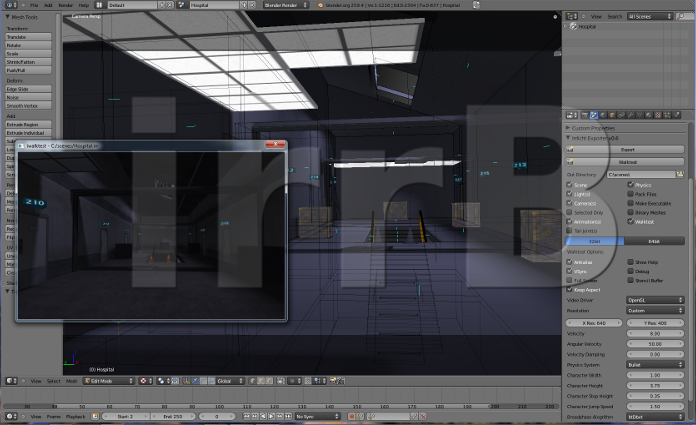
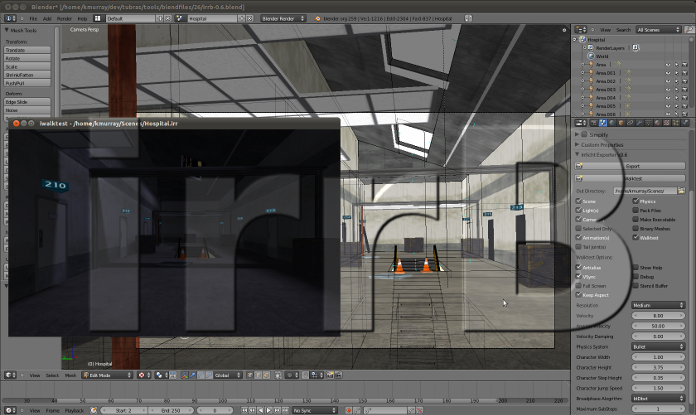
irrb 0.6 - Added Irrlicht camera properties to Object panel.

diff --git a/tools/irrb/io_export_irrlicht.py b/tools/irrb/io_export_irrlicht.py
@@ -1819,6 +1819,43 @@ def _registerIrrbProperties():
     bpy.types.Object.irrb_light_castshadows = BoolProperty(name='CastShadows',
         description='Cast Shadows', default=True, options=emptySet)
     
+    #Camera Object Properties
+    bpy.types.Object.irrb_cam_target = FloatVectorProperty(
+        name='Target',
+        description='Target',
+        default=(0.0, 0.0, 0.0),
+        min=sys.float_info.min, max=sys.float_info.max,
+        soft_min=sys.float_info.min, soft_max=sys.float_info.max,
+        step=1.0, precision=2,
+        options=emptySet, size=3)
+    
+    bpy.types.Object.irrb_cam_upvector = FloatVectorProperty(
+        name='Up Vector',
+        description='Up Vector',
+        default=(0.0, 1.0, 0.0),
+        min=sys.float_info.min, max=sys.float_info.max,
+        soft_min=sys.float_info.min, soft_max=sys.float_info.max,
+        step=1.0, precision=2,
+        options=emptySet, size=3)
+    
+    bpy.types.Object.irrb_cam_fov = FloatProperty(name='FOV',
+        description='FOV', default=0.85,
+        min=sys.float_info.min, max=sys.float_info.max,
+        soft_min=sys.float_info.min, soft_max=sys.float_info.max,
+        step=3, precision=2,
+        options=emptySet)
+    
+    bpy.types.Object.irrb_cam_aspect = FloatProperty(name='Aspect',
+        description='Aspect', default=1.25,
+        min=sys.float_info.min, max=sys.float_info.max,
+        soft_min=sys.float_info.min, soft_max=sys.float_info.max,
+        step=3, precision=2,
+        options=emptySet)
+    
+    bpy.types.Object.irrb_cam_bindtarget = BoolProperty(name='BindTarget',
+        description='Bind Target', default=False, options=emptySet)    
+    
+    
     # Material Properties
     bpy.types.Material.irrb_type = EnumProperty(name='Material Type',
         items=tuple([(mat[0], mat[1], '') for mat in irrMaterialTypes]),
@@ -2952,27 +2989,21 @@ class iScene:
         # calculate target based on x,z rotation
         #
         camera = bObject.data
-        target = mathutils.Vector()
-        starget = _formatFloats((target.x, target.z, target.y))
+        starget = _formatFloats(bObject.irrb_cam_target)
+        supvector = _formatFloats(bObject.irrb_cam_upvector)
 
         #
         # override fov & aspect with logic properties if defined
         #
         fov = 2 * math.atan(16.0 / camera.lens)
-        aspect = 1.25
+        fov = bObject.irrb_cam_fov
+        aspect = bObject.irrb_cam_aspect
 
-        prop = getProperty('irrb_camera_fov', bObject)
-        if prop != None and type(prop) == float:
-            fov = prop
-
-        prop = getProperty('irrb_camera_aspect', bObject)
-        if prop != None and type(prop) == float:
-            aspect = prop
 
         file.write(i2 + '<vector3d name="Target" ' \
             'value="{}"/>\n'.format(starget))
-        file.write(i2 + '<vector3d name="UpVector" value="0,' +
-                ' 1, 0"/>\n')
+        file.write(i2 + '<vector3d name="UpVector" ' \
+            'value="{}"/>\n'.format(supvector))
         file.write(i2 + '<float name="Fovy" value="{}"/>\n'.format(_formatFloats((fov,))))
         file.write(i2 + '<float name="Aspect" ' \
             'value="{}"/>\n'.format(_formatFloats((aspect,))))
@@ -2980,6 +3011,12 @@ class iScene:
                 (_formatFloats((camera.clip_start,))))
         file.write(i2 + '<float name="ZFar" value="{}"/>\n'.format
                 (_formatFloats((camera.clip_end,))))
+        
+        binding = 'false'
+        if bObject.irrb_cam_bindtarget:
+            binding = 'true'
+        file.write(i2 + '<bool name="Binding" value="{}"/>\n'.format
+                   (binding))
 
         file.write(i1 + '</attributes>\n')
 
@@ -5765,6 +5802,36 @@ class IrrbObjectProps(bpy.types.Panel):
             row = layout.row()
             row.label(text='Hint Buffer Type')
             row.prop(obj, 'irrb_node_hwhint_bt', '')
+        elif obj.type == 'CAMERA':
+            row = layout.row()
+            row.label(text='Target')
+            row.prop(obj, 'irrb_cam_target', '')
+            row = layout.row()
+            
+            row.label(text='Up Vector')
+            row.prop(obj, 'irrb_cam_upvector', '')
+            row = layout.row()
+            
+            row.label(text='FOV')
+            row.prop(obj, 'irrb_cam_fov', '')
+            row = layout.row()
+            
+            row.label(text='Aspect')
+            row.prop(obj, 'irrb_cam_aspect', '')
+            row = layout.row()
+            
+            row.label(text='ZNear')
+            row.prop(obj.data, 'clip_start', '')
+            row = layout.row()
+            
+            row.label(text='ZFax')
+            row.prop(obj.data, 'clip_end', '')
+            row = layout.row()
+                        
+            row.label(text='Bind Target')
+            row.prop(obj, 'irrb_cam_bindtarget', '')
+            row = layout.row()
+            
         elif obj.type == 'LAMP':
             row = layout.row()
             row.label(text='Light Type')
